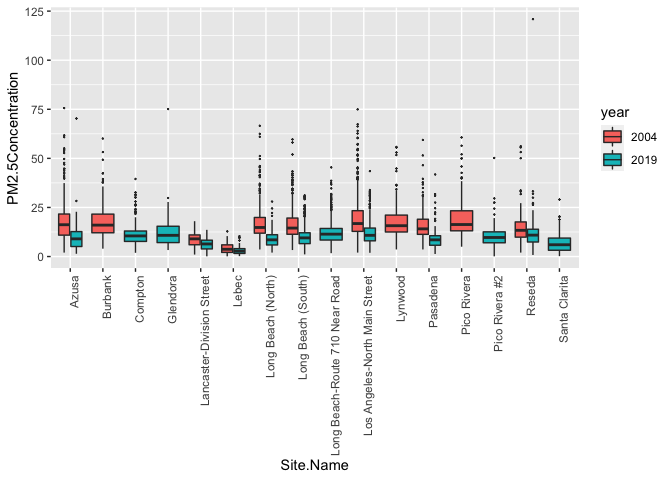
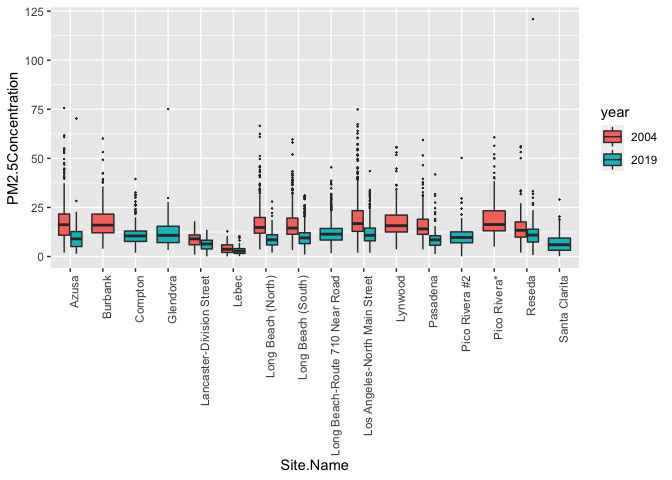
Assignment 1 submission - Flemming Wu https://github.com/USCbiostats/PM566/issues/58

Changed region(s): [[0.6875, 0.5625, 0.75, 0.7188], [0.6562, 0.4375, 0.75, 0.5312]]

diff --git a/01-assignment/README.md b/01-assignment/README.md
@@ -1,7 +1,7 @@
 Assignment 01: Exploratory Data Analysis
 ================
 Flemming Wu
-2022-09-18
+2022-09-22
 
 #### We will work with air pollution data from the U.S. Environmental Protection Agency (EPA). The primary question you will answer is whether daily concentrations of PM 2.5 (particulate matter air pollution with aerodynamic diameter less than 2.5 m) have decreased in California over the last 15 years (from 2004 to 2019).
 
@@ -402,7 +402,27 @@ sum(is.na(df_all$PM2.5Concentration))
 
     ## [1] 0
 
-No missing values in data frame.
+No missing values in PM 2.5 Concentration.
+
+``` r
+colSums(is.na(df_all))
+```
+
+    ##               Date             Source            Site.ID                POC 
+    ##                  0                  0                  0                  0 
+    ## PM2.5Concentration              UNITS    DAILY_AQI_VALUE          Site.Name 
+    ##                  0                  0                  0                  0 
+    ##    DAILY_OBS_COUNT   PERCENT_COMPLETE AQS_PARAMETER_CODE AQS_PARAMETER_DESC 
+    ##                  0                  0                  0                  0 
+    ##          CBSA_CODE          CBSA_NAME         STATE_CODE              STATE 
+    ##               5434                  0                  0                  0 
+    ##        COUNTY_CODE             COUNTY                lat                lon 
+    ##                  0                  0                  0                  0 
+    ##               year 
+    ##                  0
+
+CBSA code column is the only column that contains NA values. Will keep
+this in mind if variable must be used further on.
 
 Take a closer look at sites giving negative PM 2.5 concentration
 readings:
@@ -564,7 +584,7 @@ reflect the site location.
 
 ``` r
 lac$Site.Name <- replace(lac$Site.Name, lac$Site.Name == "",
-    "Pico Rivera")
+    "Pico Rivera*")
 ```
 
 Plotting sites in Los Angeles County.
